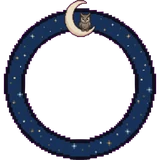
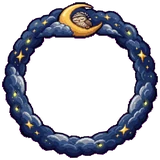
Rahmen sitzt exakt über dem Porträt (kein Schattenspalt mehr), neue Rahmen Schlüsselbund und Mitternacht
Claude-Session: https://claude.ai/code/session_01RTvd2LwEyaHrr3BB8V3DK4

Changed region(s): [[0.0, 0.0, 1.0, 1.0]]

diff --git a/css/app.css b/css/app.css
@@ -1137,3 +1137,5 @@ html.pf-art .pf-bigw{filter:drop-shadow(0 5px 7px rgba(0,0,0,.35))}   /* Schatte
 
 .sh-head h3 .sh-title{display:block;font:800 14px/1.2 var(--body);font-style:normal;color:var(--red);margin-top:3px}
 .sh-head h3 .sh-lvl{display:block;font:700 15px/1.2 var(--body);color:var(--muted);margin-top:2px}
+/* Porträt im Rahmen als Block, sonst legt der Browser Platz für Unterlängen darunter und der Ring sitzt zu tief */
+.pf-bigw>img,.pfw>img{display:block}

diff --git a/sw.js b/sw.js
@@ -1,5 +1,5 @@
 /* Service Worker: macht die App offline spielbar. Wird von build_mobile.py erzeugt. */
-const CACHE = 'loota-98ab5ac5ca';
+const CACHE = 'loota-bb1c46f04a';
 const FILES = [
 "./",
 "index.html",
